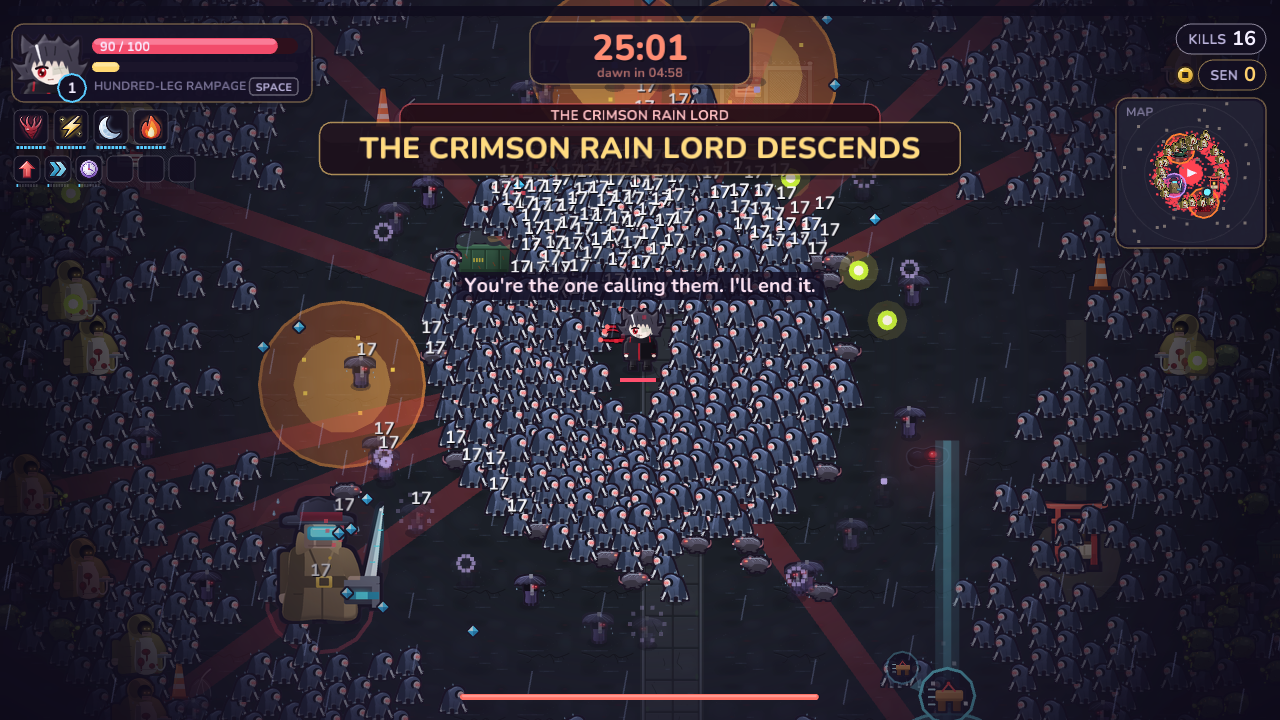
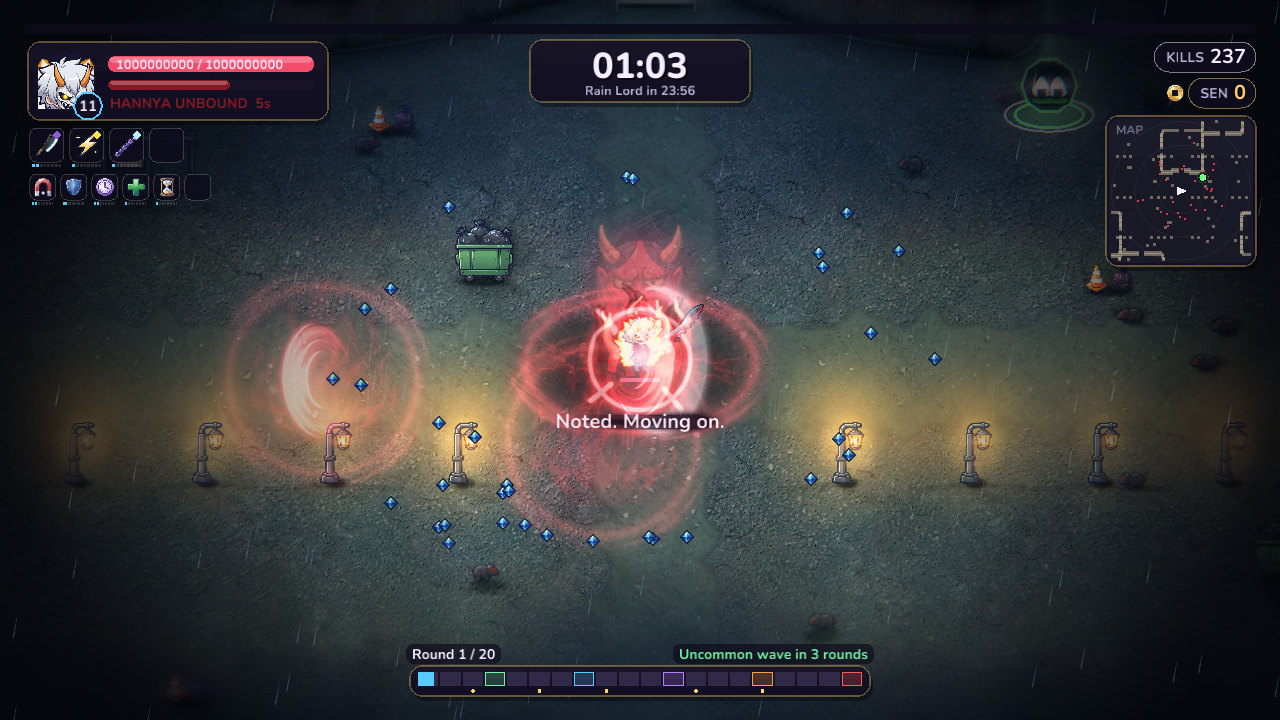
README: graphics, rigged heroes, the art pipeline as it is now, fresh world screenshots

diff --git a/README.md b/README.md
@@ -1,6 +1,6 @@
 # Kizuna Survivors
 
-**An anime-styled pixel-art survivors-like ("bullet heaven") for the browser.**
+**An anime-styled survivors-like ("bullet heaven") for the browser.**
 Heroes pulled out of many different stories fight their way through five original worlds,
 one night at a time — thousands of Otherworlders on screen, big transforming specials, and an
 endless chase for better gear.
@@ -36,21 +36,22 @@ element effect: burn, soak, chain, stagger, knockback, slow, mark or drain.
 | | |
 |---|---|
 | ![Hidden Shrine Valley](docs/screenshots/run_shrine_valley.png) | ![Ember Leaf Frontier](docs/screenshots/run_ember_leaf.png) |
-| **Hidden Shrine Valley** — danmaku spirits, bullet curtains and Mitsuhime of the Veiled Moon | **Ember Leaf Frontier** — a ninja war, explosive tags and the Shogun of the Burning Leaf |
+| **Hidden Shrine Valley** (Ren): danmaku spirits, bullet curtains and Mitsuhime of the Veiled Moon | **Ember Leaf Frontier** (Riku, Nine-Tails): a ninja war, explosive tags and the Shogun of the Burning Leaf |
 | ![Pale Citadel of Souls](docs/screenshots/run_pale_citadel.png) | ![Rainward 13](docs/screenshots/run_rainward.png) |
-| **Pale Citadel of Souls** — spirit pressure, the Hollow Monarch and the Seraph of the Pale Throne | **Rainward 13** — a drowned ward in the rain, lightning and the Crimson Rain Lord |
+| **Pale Citadel of Souls** (Kuon): spirit pressure, the Hollow Monarch and the Seraph of the Pale Throne | **Rainward 13** (Shun, Hannya Unbound): a drowned ward in the rain, lightning and the Crimson Rain Lord |
 | ![Shatterline Crossing](docs/screenshots/run_shatterline.png) | ![Map select](docs/screenshots/map_select.png) |
-| **Shatterline Crossing** — hostile domains and the Shatterline Sovereign | **Map select** — clears, best times, boss progress and relics per world |
+| **Shatterline Crossing** (Toya, Hundred-Leg Rampage): hostile domains and the Shatterline Sovereign | **Map select**: clears, best times, boss progress and relics per world |
 
 ### Heroes
 
-Each hero is an original character with their own sprite, signature weapon, innate passive,
-weapon pool and a transforming **special move**:
+Each hero is an original character, rigged and animated (walk, idle, attacks), with a signature
+weapon, innate passive, weapon pool and a transforming **special move**. Every piece of gear they
+wear shows on them, on any hero, with no per-hero work.
 
 - **Ren Amane** — shrine maiden. Ofuda, yin-yang orbs, purification seals; *Divine Purification*. Affinity: Light.
-- **Riku Kazamine** — fox-masked shinobi. Foxfire orbs, familiars, shuriken, clones; *Ninefold Foxfire*. Affinity: Fire.
-- **Shun Yamikiri** — spirit ferryman with a great cleaver; *Hannya Unbound*. Affinity: Darkness.
-- **Toya Hyakuashi** — cursed youth with crimson tendrils; *Hundred-Leg Rampage*. Affinity: Earth.
+- **Riku Kazamine** — fox-masked shinobi. Foxfire orbs, familiars, shuriken, clones; *Ninefold Foxfire* (nine fox tails behind him, spirit tails lashing out). Affinity: Fire.
+- **Shun Yamikiri** — spirit ferryman with a great cleaver; *Hannya Unbound* (a demon mask looming behind him). Affinity: Darkness.
+- **Toya Hyakuashi** — cursed youth with crimson tendrils; *Hundred-Leg Rampage* (a great armoured centipede arcing over his back). Affinity: Earth.
 - **Kuon Hoshimi** — star-reading onmyōji who bends space; *Domain: Endless Firmament*. Affinity: Ice.
 
 A hero deals +10% with skills of their own element, and their special move deals it too.
@@ -104,6 +105,23 @@ More heroes are on the way. Heroes unlock by clearing worlds with a specific her
 
 ![Shrine Draw](docs/screenshots/shrine_draw.png)
 
+### Graphics
+
+- **A moonlit night in every world**: a light map with warm pools from lanterns, fire, spells
+  and pickups. Everything casts shadows, from the moon and from each lamp near it, and they
+  merge where they overlap. Characters are lit with volume: a rim of light on the side facing
+  the moon or the nearest lamp, shade on the far side.
+- **Readable maps**: every world is laid out as terraces, one per road crossing. Each has one
+  way up per side, a flight of stairs cut into the rock or a ramp, where its road comes in. Rock
+  is wall and ground is open, drawn from the very walls the game collides with.
+- **A camera lens**: bloom from real light, a colour grade per world, tilt-shift depth, heat
+  haze over fire, moonlight shafts, film grain. Plus swaying grass, drifting motes and mist,
+  rain on Rainward's wet streets, scorch marks, and enemies that burn away when they fall.
+- **Fights stay readable**: crisp enemy bullets with dark rims, sparks that streak, and a glow
+  budget so a screen full of attacks never washes out.
+- **Graphics setting** (Auto / Low / Medium / High). Auto starts high and steps down by itself
+  if the frame rate drops, so phones stay smooth.
+
 Also: a Shrine Shop of permanent upgrades, weapon **Awakenings**, a Collection, detailed Stats,
 floor power-ups, a data-driven minimap, and a fully synthesised soundtrack.
 
@@ -126,9 +144,12 @@ floor power-ups, a data-driven minimap, and a fully synthesised soundtrack.
   balance bot.
 - `crates/client` — rendering, UI kit (virtual 1280×720 layout, high-DPI text), touch controls,
   audio and screens.
-- **All art is generated as code**: pixel sprites are text `.px` files produced by the Python
-  scripts in `tools/` and parsed at build time. **All audio is synthesised** at startup — no audio
-  files ship.
+- **Art**: high-resolution 2D art made from our own designs with AI image models through
+  reproducible scripts (`tools/ai/`; see `docs/art-pipeline.md`). Heroes are cut-out rigs
+  animated in code, and worn gear is composed onto them at runtime. Lighting, shadows, terrain,
+  the transformations and the lens are shaders and geometry in code (`docs/lighting.md`,
+  `docs/graphics.md`). **All audio is synthesised** at startup; no audio files ship.
+- **Cloud saves** with sign-in (Supabase; `docs/cloud-saves.md`).
 
 ### Build and run
 
@@ -155,7 +176,11 @@ Requires a recent stable Rust toolchain with the `wasm32-unknown-unknown` target
 ```
 crates/sim      game simulation (campaign, enemies, gear, world, meta/save)
 crates/client   macroquad client (render, UI, menus, armory, audio, touch)
-art/src         pixel art as text (.px), generated by tools/*.py
+art/hd          high-resolution art (sprites, terrain, icons, gear)
+art/rig         rigged heroes (parts, poses, worn gear)
+art/src         the pixel-art layouts the HD art sits on (.px; sizes and hitboxes)
+tools/ai        art generation and processing scripts
+docs/           lighting, graphics, art pipeline and cloud saves
 assets/fonts    Nunito (SIL Open Font License)
 web/            index.html, JS plugins (save storage, fullscreen), PWA manifest, service worker and icons
 scripts/        build scripts
